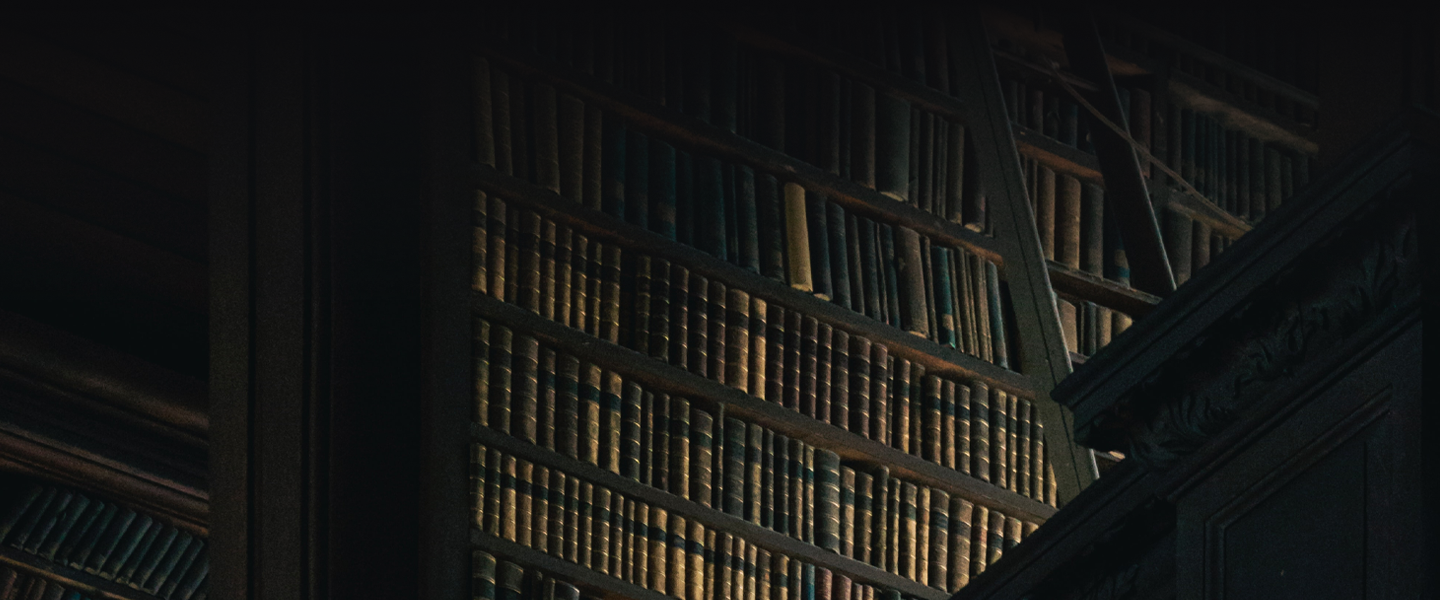
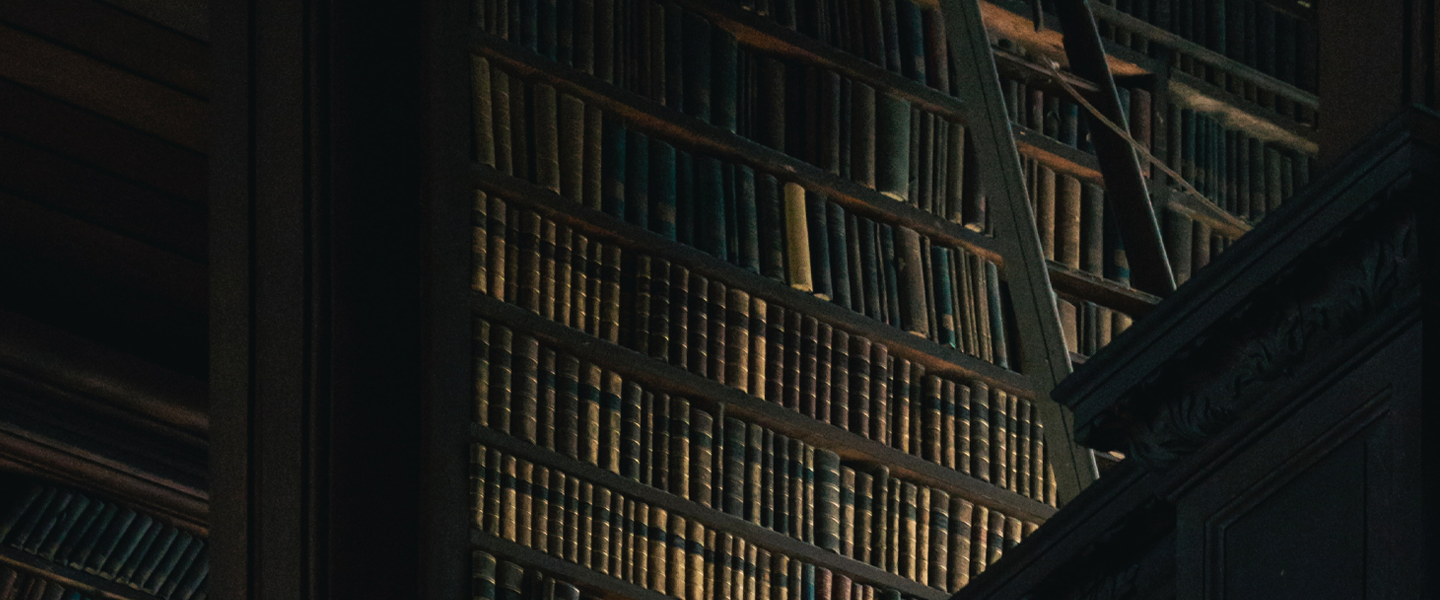
feat: update welcome img and add linear-gradient

diff --git a/library/src/styles/css/main.css b/library/src/styles/css/main.css
@@ -111,7 +111,10 @@ p {
 }
 
 .welcome {
-  background: url("../../../img/headerAndWelcome/Welcome.png");
+  width: 100%;
+  background-image: linear-gradient(rgb(12, 12, 14), rgba(18, 18, 21, 0.1)), url("../../../img/headerAndWelcome/Welcome.png");
+  background-repeat: no-repeat;
+  background-size: cover;
   height: 91.5vh;
 }
 .welcome__pos {

diff --git a/library/src/styles/scss/_welcome.scss b/library/src/styles/scss/_welcome.scss
@@ -1,5 +1,8 @@
 .welcome {
-	background: url("../../../img/headerAndWelcome/Welcome.png");
+	width: 100%;
+	background-image: linear-gradient(rgba(12, 12, 14, 1),rgba(18, 18, 21, 0.1)), url("../../../img/headerAndWelcome/Welcome.png");
+	background-repeat: no-repeat;
+	background-size: cover;
 	height: 91.5vh;
 	&__pos {
 		width: 600px;
